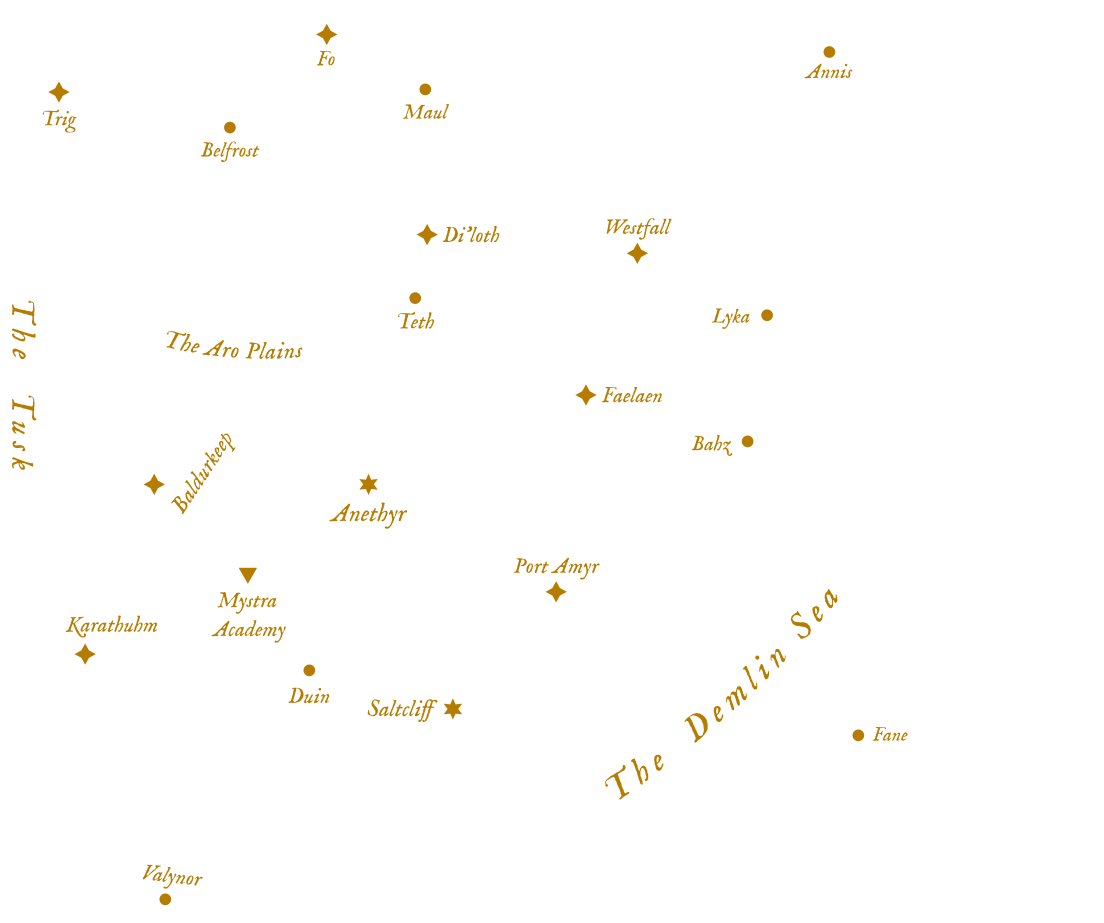
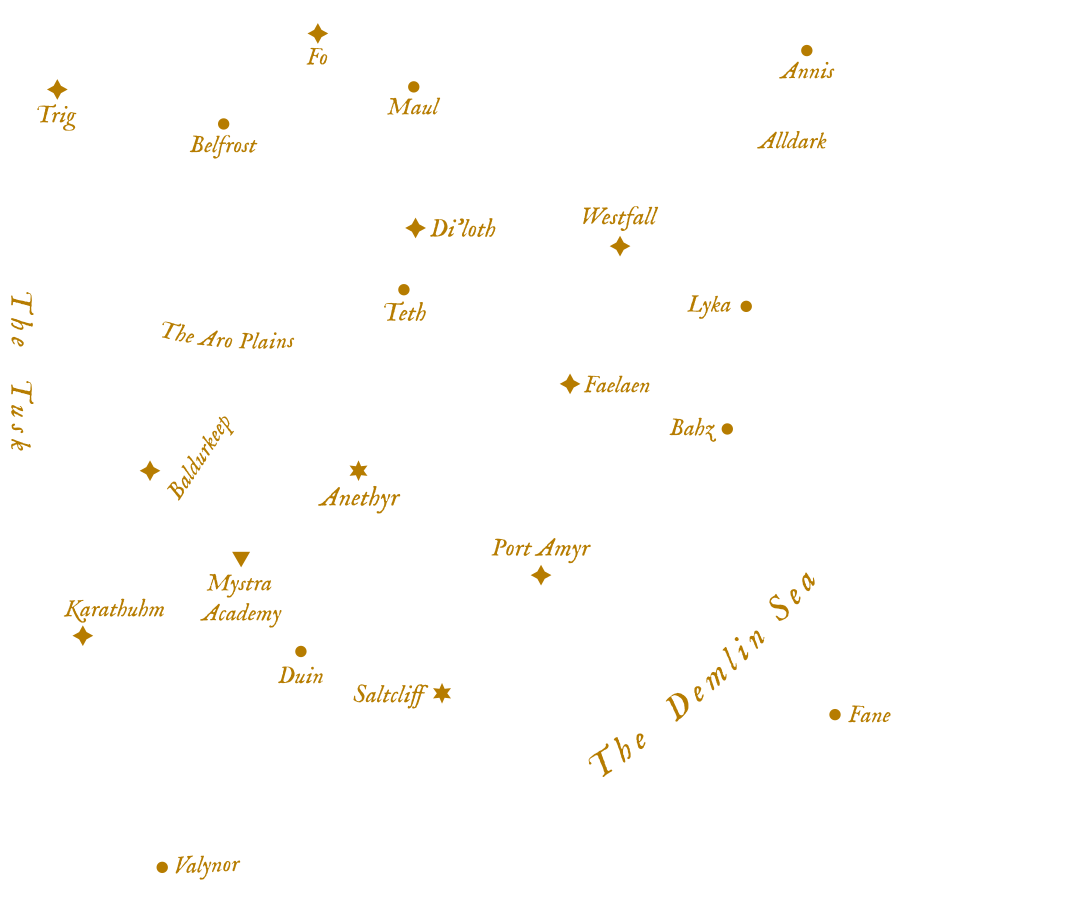
full map and id

diff --git a/index.html b/index.html
@@ -25,17 +25,47 @@
   </header> 
 
   <main class="wrapper">
-    <!-- <p>Test</p> -->
+    <!-- Map element -->
     <div class="pyre-map-container">
       <img src="./images/WorldMapDark_Places(resize).png" class="pyre-map" usemap="#image-map">
-    
       <map name="image-map">
-        <area id="fane" target="" alt="fane" coords="834,702,932,773" shape="rect">
-        <area id="valynor" target="" alt="valynor" coords="138,855,205,915" shape="rect">
-        <area id="saltcliff" target="" alt="saltcliff" coords="359,687,471,732" shape="rect">
+        <area target="" id="trig" alt="trig" coords="22,72,97,139" shape="rect">
+        <area target="" id="belfrost" alt="belfrost" coords="181,111,266,167" shape="rect">
+        <area target="" id="fo" alt="Fo" coords="297,15,341,78" shape="rect">
+        <area target="" id="maul" alt="Maul" coords="379,74,449,124" shape="rect">
+        <area target="" id="annis" alt="annis" coords="772,35,845,91" shape="rect">
+        <area target="" id="alldark" alt="alldark" coords="743,120,846,164" shape="rect">
+        <area target="" id="diloth" alt="di'loth" coords="395,205,511,251" shape="rect">
+        <area target="" id="westfall" alt="westfall" coords="569,199,672,269" shape="rect">
+        <area target="" id="tusk" alt="tusk" coords="0,268,55,483" shape="rect">
+        <area target="" id="aro" alt="aro" coords="134,307,331,375" shape="rect">
+        <area target="" id="teth" alt="teth" coords="369,278,443,332" shape="rect">
+        <area target="" id="lyka" alt="lyka" coords="667,282,774,326" shape="rect">
+        <area target="" id="baldurkeep" alt="baldurkeep" coords="214,398,122,472,187,519,251,422,251,422" shape="poly">
+        <area target="" id="anethyr" alt="anethyr" coords="304,450,416,525" shape="rect">
+        <area target="" id="faelaen" alt="faelaen" coords="552,366,658,402" shape="rect">
+        <area target="" id="bahz" alt="bahz" coords="661,411,746,450" shape="rect">
+        <area target="" id="karathuhm" alt="karathuhm" coords="59,594,172,653" shape="rect">
+        <area target="" id="mystra" alt="mystra" coords="196,542,287,633" shape="rect">
+        <area target="" id="duin" alt="duin" coords="273,640,330,689" shape="rect">
+        <area target="" id="saltcliff" alt="saltcliff" coords="344,672,459,719" shape="rect">
+        <area target="" id="portAmyr" alt="portAmyr" coords="476,522,605,593" shape="rect">
+        <area target="" id="fane" alt="fane" coords="819,696,906,736" shape="rect">
+        <area target="" id="valynor" alt="valynor" coords="144,841,253,890" shape="rect">
+        <area target="" id="demlinSea" alt="demlinSea" coords="804,540,560,745,609,814,847,592" shape="poly">
       </map>
     </div>
+    <!-- Popup -->
+    <div class="popup">
+      
+    </div>
+    <div class="popup-bg">
+      
+    </div>
   </main>
+  <footer>
+
+  </footer>
 <script src="app.js"></script>
 <script src="imageMapResizer.min.js"></script>
 <script>imageMapResize();</script>

diff --git a/style.css b/style.css
@@ -71,14 +71,26 @@ p{
     font-size: 18px;
 }
 
+footer{
+    display: flex;
+    background-color: #161b16;
+    background-image: url("./images/WorldMapDark_Empty_opacity10.svg");
+    background-repeat: no-repeat;
+    background-size: 150rem;
+    background-position: right;
+    height: 120px;
+    border-top: 2px solid #6a706a;
+    align-items: center;
+}
+
 .pyre-map-container{    
     display: flex;
-    margin: 150px 0;
+    margin: 140px 30px;
     justify-content: center;
 }
 
 .pyre-map{
-    width: 100%;
+    max-width: 100%;
     margin: 5px;
     padding:10px 20px 10px 0;
     border: 8px inset white;

diff --git a/app.js b/app.js
@@ -1,5 +1,5 @@
 const faneArea = document.querySelector('#fane');
 
 faneArea.addEventListener('click', ()=>{
-    console.log('it works!')
+    alert('it works!')
 })
